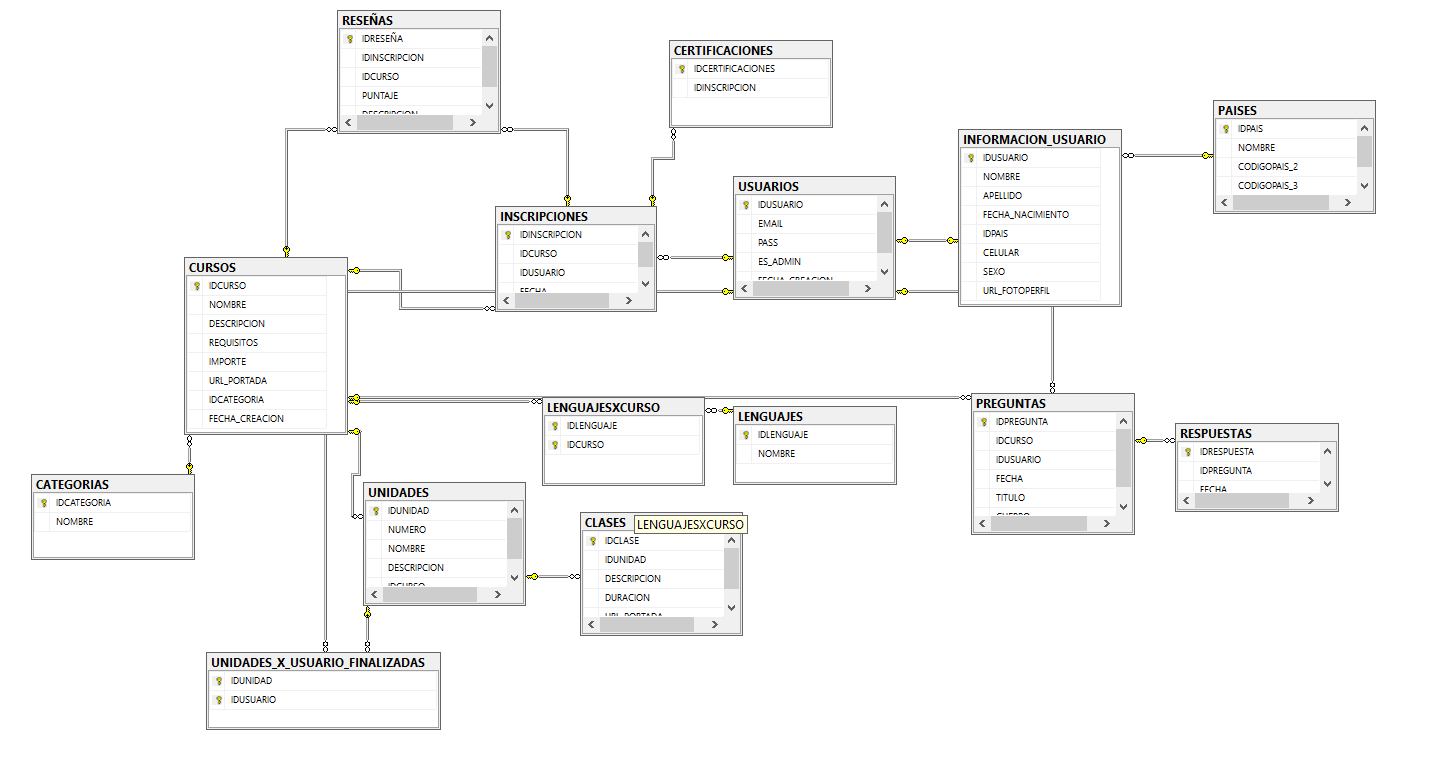
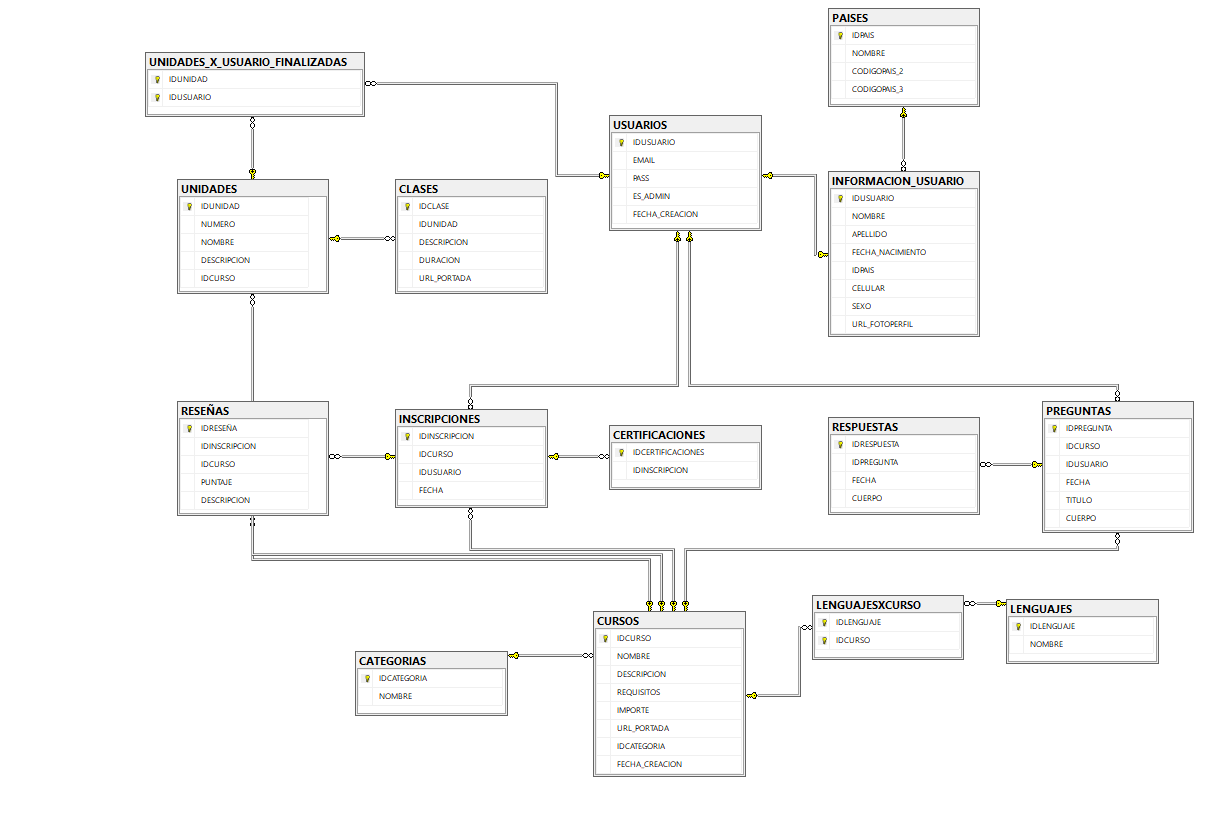
Añadi Todos Modelos correspondientes a Bd en Dominio. Actualize Script Bd y Schema

diff --git a/Dominio/Curso.cs b/Dominio/Curso.cs
@@ -1,0 +1,28 @@
+using System;
+using System.Collections.Generic;
+using System.Linq;
+using System.Text;
+using System.Threading.Tasks;
+
+namespace Dominio
+{
+    public class Curso
+    {
+        public int Idcurso { get; set; }
+
+        public string Nombre { get; set; } 
+
+        public string Descripcion { get; set; }
+
+        public string Requisitos { get; set; } 
+
+        public decimal Importe { get; set; }
+
+        public string UrlPortada { get; set; } 
+
+        public int Idcategoria { get; set; }
+
+        public DateTime? FechaCreacion { get; set; } // ? = acepta nulos
+
+    }
+}

diff --git a/Dominio/InformacionUsuario.cs b/Dominio/InformacionUsuario.cs
@@ -1,0 +1,27 @@
+using System;
+using System.Collections.Generic;
+using System.Linq;
+using System.Text;
+using System.Threading.Tasks;
+
+namespace Dominio
+{
+    public class InformacionUsuario
+    {
+        public int Idusuario { get; set; }
+
+        public string Nombre { get; set; } 
+
+        public string Apellido { get; set; } 
+
+        public DateTime FechaNacimiento { get; set; }
+
+        public int Idpais { get; set; }
+
+        public string Celular { get; set; } 
+
+        public string Sexo { get; set; } 
+
+        public string UrlFotoperfil { get; set; }
+    }
+}

diff --git a/Dominio/Pregunta.cs b/Dominio/Pregunta.cs
@@ -1,0 +1,24 @@
+using System;
+using System.Collections.Generic;
+using System.Linq;
+using System.Text;
+using System.Threading.Tasks;
+
+namespace Dominio
+{
+    public class Pregunta
+    {
+        public int Idpregunta { get; set; }
+
+        public int Idcurso { get; set; }
+
+        public int Idusuario { get; set; }
+
+        public DateTime? Fecha { get; set; } // la fecha se carga sola en la BD
+
+        public string Titulo { get; set; } 
+
+        public string Cuerpo { get; set; } 
+
+    }
+}

diff --git a/Dominio/Usuario.cs b/Dominio/Usuario.cs
@@ -1,0 +1,21 @@
+using System;
+using System.Collections.Generic;
+using System.Linq;
+using System.Text;
+using System.Threading.Tasks;
+
+namespace Dominio
+{
+   public class Usuario
+    {
+        public int Idusuario { get; set; }
+
+        public string Email { get; set; } 
+
+        public string Pass { get; set; } 
+
+        public bool? EsAdmin { get; set; } //DEFAULT = 0
+
+        public DateTime? FechaCreacion { get; set; } // se carga sola en la BD
+    }
+}

diff --git a/CodeMentor/Inicio.aspx.designer.cs b/CodeMentor/Inicio.aspx.designer.cs
@@ -1,0 +1,17 @@
+//------------------------------------------------------------------------------
+// <auto-generated>
+//     This code was generated by a tool.
+//
+//     Changes to this file may cause incorrect behavior and will be lost if
+//     the code is regenerated.
+// </auto-generated>
+//------------------------------------------------------------------------------
+
+namespace CodeMentor
+{
+
+
+    public partial class Default
+    {
+    }
+}

diff --git a/Dominio/Reseña.cs b/Dominio/Reseña.cs
@@ -1,0 +1,21 @@
+using System;
+using System.Collections.Generic;
+using System.Linq;
+using System.Text;
+using System.Threading.Tasks;
+
+namespace Dominio
+{
+    public class Reseña
+    {
+        public int Idreseña { get; set; }
+
+        public int Idinscripcion { get; set; }
+
+        public int Idcurso { get; set; }
+
+        public int Puntaje { get; set; }
+
+        public string Descripcion { get; set; }
+    }
+}

diff --git a/Dominio/Unidad.cs b/Dominio/Unidad.cs
@@ -1,0 +1,21 @@
+using System;
+using System.Collections.Generic;
+using System.Linq;
+using System.Text;
+using System.Threading.Tasks;
+
+namespace Dominio
+{
+    public class Unidad
+    {
+        public int Idunidad { get; set; }
+        public int Idcurso { get; set; }
+
+        public int Numero { get; set; }
+
+        public string Nombre { get; set; }
+
+        public string Descripcion { get; set; }
+
+    }
+}

diff --git a/Dominio/Inscripcion.cs b/Dominio/Inscripcion.cs
@@ -1,0 +1,19 @@
+using System;
+using System.Collections.Generic;
+using System.Linq;
+using System.Text;
+using System.Threading.Tasks;
+
+namespace Dominio
+{
+    public class Inscripcion
+    {
+        public int Idinscripcion { get; set; }
+
+        public int Idcurso { get; set; }
+
+        public int Idusuario { get; set; }
+
+        public DateTime? Fecha { get; set; } // SE CARGA EN BD
+    }
+}

diff --git a/Dominio/Respuesta.cs b/Dominio/Respuesta.cs
@@ -1,0 +1,19 @@
+using System;
+using System.Collections.Generic;
+using System.Linq;
+using System.Text;
+using System.Threading.Tasks;
+
+namespace Dominio
+{
+    public class Respuesta
+    {
+        public int Idrespuesta { get; set; }
+
+        public int Idpregunta { get; set; }
+
+        public string Cuerpo { get; set; }
+
+        public DateTime? Fecha { get; set; }
+    }
+}

diff --git a/Dominio/Pais.cs b/Dominio/Pais.cs
@@ -1,0 +1,19 @@
+using System;
+using System.Collections.Generic;
+using System.Linq;
+using System.Text;
+using System.Threading.Tasks;
+
+namespace Dominio
+{
+    public class Pais
+    {
+        public int Idpais { get; set; }
+
+        public string Nombre { get; set; }
+
+        public string Codigopais2 { get; set; }
+
+        public string Codigopais3 { get; set; }
+    }
+}

diff --git a/CodeMentor/Inicio.aspx.cs b/CodeMentor/Inicio.aspx.cs
@@ -1,0 +1,17 @@
+using System;
+using System.Collections.Generic;
+using System.Linq;
+using System.Web;
+using System.Web.UI;
+using System.Web.UI.WebControls;
+
+namespace CodeMentor
+{
+    public partial class Default : System.Web.UI.Page
+    {
+        protected void Page_Load(object sender, EventArgs e)
+        {
+
+        }
+    }
+}

diff --git a/Dominio/Certificacion.cs b/Dominio/Certificacion.cs
@@ -1,0 +1,16 @@
+using System;
+using System.Collections.Generic;
+using System.Linq;
+using System.Text;
+using System.Threading.Tasks;
+
+namespace Dominio
+{
+    public class Certificacion
+    {
+        public int Idcertificaciones { get; set; }
+
+        public int Idinscripcion { get; set; }
+
+    }
+}
